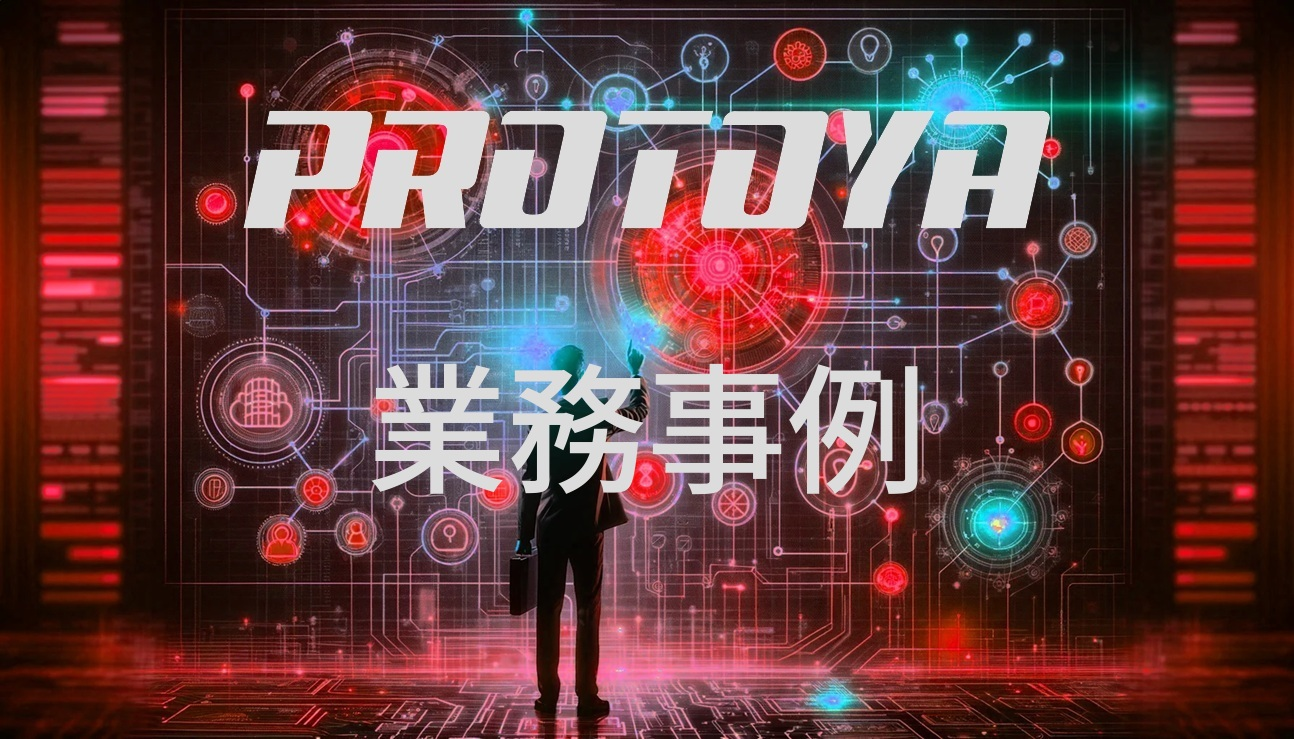
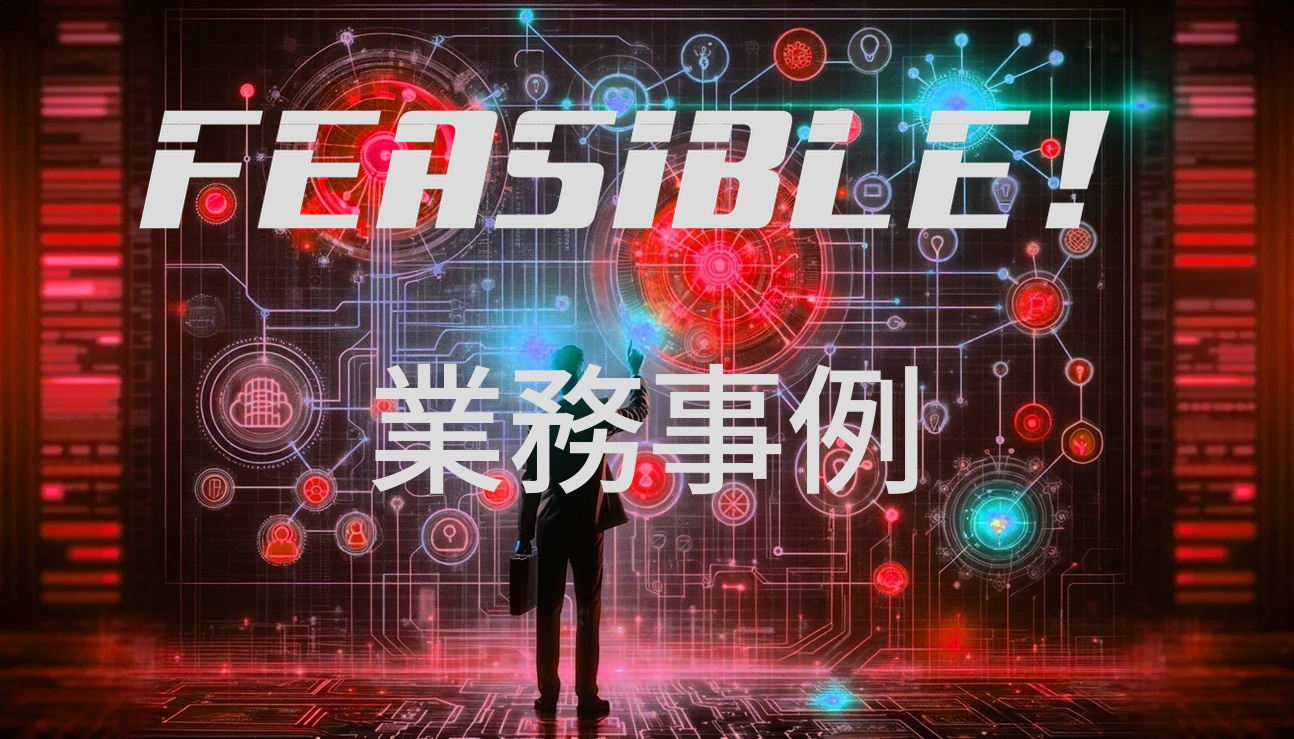
フィジブル合同会社に変更

Changed region(s): [[0.0927, 0.1245, 0.8655, 0.3112]]

diff --git a/docs/css/main-cover.css b/docs/css/main-cover.css
@@ -1,19 +1,15 @@
 .md-main {
-  background: linear-gradient(
-    180deg, 
-    rgba(0, 0, 0, 1), 
-    rgba(0, 0, 0, 0.0)) ,
-    url(../images/system-archect-professional-service2.webp);
+  background-image: url(../images/The_Victorious_Businessman.png);
   background-position: center top;
   background-size: cover;
   background-repeat:  no-repeat;
   background-color:rgb(22, 5, 5); 
 }
 .md-typeset {
-  color: rgb(187, 187, 187);
+  color: #000000;
 }
 .md-typeset h1 {
-  color: rgb(187, 187, 187);
+  color: #000000;
   font: small-caps bold 24px/1 sans-serif;
   font-size: 2em;
   line-height: 1.3;
@@ -21,12 +17,12 @@
   text-align: left;
 }
 .md-typeset a {
-  color: rgb(187, 187, 187);
+  color: #000000;
 }
 .md-typeset .md-button {
   border: .1rem solid;
   border-radius: .1rem;
-  color: rgb(187, 187, 187);
+  color: #000000;
   cursor: pointer;
   display: inline-block;
   font-weight: 700;
@@ -36,22 +32,22 @@
 .md-typeset .md-button:focus, .md-typeset .md-button:hover {
   background-color: var(--md-primary-fg-color);
   border-color: var(--md-primary-fg-color);
-  color: var(--md-accent-bg-color);
+  color: #000000;
 }
 .md-content {
-  color: rgb(187, 187, 187);
+  color: #000000;
   font: small-caps bold 24px/1 sans-serif;
-  text-align: center;
+  text-align: left;
 }
 .center-content {
-  color: rgb(187, 187, 187);
+  color: #000000;
   font: small-caps bold 20px/1 sans-serif;
-  text-align: center;
+  text-align: left;
   height : 300px;
   vertical-align : middle;
 }
 .center {
-    text-align: center;
+    text-align: left;
 }
 .md-header, .md-tabs, .md-sidebar, .md-sidebar.md-sidebar--primary, .md-sidebar.md-sidebar--secondary, .md-footer {
     display: none

diff --git a/docs/css/style.css b/docs/css/style.css
@@ -22,6 +22,7 @@
 }
 .md-typeset {
   color: #000000;
+  text-align: left;
 }
 .md-typeset h1 {
   font-weight: bold;
@@ -55,7 +56,7 @@ p.update-date {
   color: var(--md-default-fg-color--light);
   font-size: .68rem;
   margin-top: 0em;
-  text-align: right;
+  text-align: left;
 }
 p.update-date::before {
   content: url("../images/clock.svg");
@@ -65,5 +66,5 @@ a.update-date {
   color: var(--md-default-fg-color--light);
   font-size: .68rem;
   margin-top: 0em;
-  text-align: right;
+  text-align: left;
 }

diff --git a/docs/about.md b/docs/about.md
@@ -1,24 +1,30 @@
 ---
-og_title: "プロト屋 自己紹介"
+og_title: "自己紹介"
 og_description: "基本情報、略歴、スキル、お問い合わせ先"
 og_url: "https://www.proto-ya.com/about"
 og_image: "https://www.proto-ya.com/ogp/about.jpg"
 og_site_name: "PROTOYA"
 og_type: "website"
 ---
-# 自己紹介
-<p class="update-date">最終更新日: 2025年 5月 10日</br>
+# フィジブル合同会社について
+<p class="update-date">最終更新日: 2026年 10月 1日</br>
 <a class="update-date" target="_blank" href='https://github.com/proto-ya/protoya-mkdocs/commits/main/docs/about.md'>編集履歴</a></p>
 
-IT系フリーランス。バックエンド・インフラ系を中心に活動している。  
+## 法人になりました
+
+個人事業主「プロト屋」は2026年10月1日より「フィジブル合同会社」になりました。  
+近年話題のAIを活用したシステム開発、それに伴うクラウドインフラ基盤を中心としたマイグレーションにより注力して活動していきます。  
+
+## 代表 自己紹介
+
+フィジブル合同会社代表。バックエンド・インフラ系を中心に活動している。  
 システム開発上流フェーズでの技術調査やPoCを得意とし、複数のAWS移行を経験。  
 レガシーマイグレーションにも多くの実績がある。  
 マネジメントよりも現場で手を動かす事を好む。若い人の面倒見は良い方だと思っている。
+2020年10月に個人事業主として起業した。
 
 [業務事例](case/index.md){ .md-button }
 [技術ノート](tech-notes/index.md){ .md-button }
-
-## 基本情報
 
 ![profile photo](images/profile-photo.jpg){align=right style="width:150px;"}
 
@@ -30,6 +36,7 @@ IT系フリーランス。バックエンド・インフラ系を中心に活動
   登録番号 ： [T3810265808620](https://www.invoice-kohyo.nta.go.jp/regno-search/detail?selRegNo=3810265808620){target="_blank"}  
 
 ## 略歴
+
 1995年、東海大学 工学部 電子工学科を卒業。中堅システムインテグレーターに就職。  
 ITコンサル会社、外資パッケージベンダーを経て、オフショア開発を前提とした設計・受入テスト・保守を行う会社を起業。  
 リーマンショックの影響で廃業するも、多様な経験を積む。

diff --git a/docs/tech-notes/how-to-make-ogp-image.md b/docs/tech-notes/how-to-make-ogp-image.md
@@ -1,5 +1,5 @@
 ---
-og_title: "プロト屋 技術ノート"
+og_title: "技術ノート"
 og_description: "OGPイメージの作り方"
 og_url: "https://www.proto-ya.com/tech-notes/how-to-make-ogp-image/"
 og_image: "https://www.proto-ya.com/ogp/tech-notes.jpg"
@@ -39,7 +39,7 @@ sudo mv ~/*.ttf /usr/share/fonts/truetype/noto/
 ``` bash
 cd ~/protoya-mkdocs/docs/ogp/
 # ロゴのサイズを調整してpngに変換
-convert -background none -density 250 ../images/protoya-logo-white.svg logo.png 
+convert -background none -density 250 ../images/feasible-logo-white.svg logo.png 
 # ベースとロゴを合成
 convert base.jpg logo.png -background none -gravity center -compose over -composite title.jpg 
 # ロゴpngを削除
@@ -50,7 +50,7 @@ rm logo.png
 ``` bash
 cd ~/protoya-mkdocs/docs/ogp/
 # ロゴのサイズを調整してpngに変換
-convert -background none -density 250 ../images/protoya-logo-white.svg logo.png 
+convert -background none -density 250 ../images/feasible-logo-white.svg logo.png 
 # ベースとロゴを合成 ロゴは200上に
 convert base.jpg logo.png -background none -gravity center -geometry +0-200 -compose over -composite case.jpg
 # キャプション文字列画像
@@ -67,7 +67,7 @@ rm logo.png caption.png
 ``` bash
 cd ~/protoya-mkdocs/docs/ogp/
 # ロゴのサイズを調整してpngに変換
-convert -background none -density 250 ../images/protoya-logo-white.svg logo.png 
+convert -background none -density 250 ../images/feasible-logo-white.svg logo.png 
 # ベースとロゴを合成 ロゴは200上に
 convert base.jpg logo.png -background none -gravity center -geometry +0-200 -compose over -composite about.jpg
 # キャプション文字列画像
@@ -84,7 +84,7 @@ rm logo.png caption.png
 ``` bash
 cd ~/protoya-mkdocs/docs/ogp/
 # ロゴのサイズを調整してpngに変換
-convert -background none -density 250 ../images/protoya-logo-white.svg logo.png 
+convert -background none -density 250 ../images/feasible-logo-white.svg logo.png 
 # ベースとロゴを合成 ロゴは200上に
 convert base.jpg logo.png -background none -gravity center -geometry +0-200 -compose over -composite tech-notes.jpg
 # キャプション文字列画像

diff --git a/docs/home.md b/docs/home.md
@@ -1,5 +1,5 @@
 ---
-og_title: "プロト屋 ごあいさつ"
+og_title: "ごあいさつ"
 og_description: "ごあいさつと、このサイトのご案内"
 og_url: "https://www.proto-ya.com/home/"
 og_image: "https://www.proto-ya.com/ogp/title.jpg"
@@ -7,10 +7,10 @@ og_site_name: "PROTOYA"
 og_type: "website"
 ---
 # ごあいさつ
-<p class="update-date">最終更新日: 2025年 1月 31日<br>
+<p class="update-date">最終更新日: 2026年 10月 1日<br>
 <a class="update-date" target="_blank" href='https://github.com/proto-ya/protoya-mkdocs/commits/main/docs/home.md'>編集履歴</a></p>
 
-IT系フリーランス、プロト屋のポートフォリオサイトです。  
+システム開発のフィジブル合同会社のポートフォリオサイトです。  
 
 バックエンドからインフラまで幅広い分野で、PoC（概念実証）、サービスのプロトタイプ開発に多数の実績があります。  
 豊富な開発経験を基に、机上だけではなく、実際にものを動かして確認しています。  
@@ -24,7 +24,7 @@ IT系フリーランス、プロト屋のポートフォリオサイトです。
 
 このサイトでは、これまでの実績の一部を事例としてご紹介しています。
 
-[自己紹介](about.md){ .md-button }
+[会社紹介](about.md){ .md-button }
 [業務事例](case/index.md){ .md-button }
 
 ## こんなシーンでお役に立ちます

diff --git a/docs/index.md b/docs/index.md
@@ -1,7 +1,7 @@
 ---
 title: " "
-og_title: "プロト屋"
-og_description: "IT系フリーランス プロト屋のポートフォリオサイト"
+og_title: "フィジブル合同会社"
+og_description: "フィジブル合同会社のポートフォリオサイト"
 og_url: "https://www.proto-ya.com"
 og_image: "https://www.proto-ya.com/ogp/title.jpg"
 og_site_name: "PROTOYA"
@@ -9,10 +9,13 @@ og_type: "website"
 ---
 # System Architect<br>Professional<br>Services
 <link rel="stylesheet" href="css/main-cover.css">
-<p style="padding: 10px;"></p>
-<div style="text-align: center;">
+<p style="padding: 5px;"></p>
+<div>
 あらゆる局面を支援します
+<h1>フィジブル合同会社</h1>
 </div>
-![profile photo](images/protoya-logo-white.svg){: .center}
-<p style="padding: 20px;"></p>
-[プロト屋 Home](home.md){ .md-button .center }
+<!--
+![profile photo](images/feasible-logo-white.svg){: .center}
+-->
+<p style="padding: 0px;"></p>
+[Home](home.md){ .md-button .left }

diff --git a/docs/tech-notes/making-protoya-portfolio-site.md b/docs/tech-notes/making-protoya-portfolio-site.md
@@ -1,12 +1,12 @@
 ---
-og_title: "プロト屋 技術ノート"
-og_description: "プロト屋ポートフォリオ(このサイト)の構築"
+og_title: "技術ノート"
+og_description: "ポートフォリオ(このサイト)の構築"
 og_url: "https://www.proto-ya.com/tech-notes/making-protoya-portfolio-site/"
 og_image: "https://www.proto-ya.com/ogp/tech-notes.jpg"
 og_site_name: "PROTOYA"
 og_type: "website"
 ---
-# プロト屋ポートフォリオ(このサイト)の構築
+# ポートフォリオ(このサイト)の構築
 <p class="update-date">最終更新日: 2025年 1月 31日</br>
 <a class="update-date" target="_blank" href='https://github.com/proto-ya/protoya-mkdocs/commits/main/docs/tech-notes/making-protoya-portfolio-site.md'>編集履歴</a></p>
 

diff --git a/readme.md b/readme.md
@@ -1,6 +1,6 @@
 # プロト屋 MkDocs リソース
 
-このリポジトリは、[プロト屋のポートフォリオサイト](https://www.proto-ya.com/)を構築するリソース一式です。  
+このリポジトリは、[フィジブル合同会社/プロト屋のポートフォリオサイト](https://www.proto-ya.com/)を構築するリソース一式です。  
 ドキュメント構築ツール [MkDocs](https://www.mkdocs.org/) を活用して作成しました。  
 CSSや拡張機能の設定・構成を共有します。  
 アピールできる画像が多くない、バックエンドやインフラ系のエンジニアのポートフォリオサイトを構築する際の参考になればと思い公開します。

diff --git a/docs/case/aws-account-migration.md b/docs/case/aws-account-migration.md
@@ -1,5 +1,5 @@
 ---
-og_title: "プロト屋 業務事例"
+og_title: "業務事例"
 og_description: "事例紹介 : 大量のAWSアカウントのペイヤー移管
 大手ユーザー企業様において、複数のAWS Organizationsを統合するため、アカウント移管作業を実施。
 対象となる約150のAWSアカウントは、マネージドサービスを多用しており、またCfCTを用いたIaCも進んでいることから、個々が複雑な構成を持っていた。特にセキュリティ設定の影響でサービス停止が発生しないよう、慎重に調査と計画を行う。試行を重ねることで問題点を改善し、効率化を図るサイクルを構築した。

diff --git a/docs/tech-notes/index.md b/docs/tech-notes/index.md
@@ -1,5 +1,5 @@
 ---
-og_title: "プロト屋 技術ノート"
+og_title: "技術ノート"
 og_description: "技術情報を公開します"
 og_url: "https://www.proto-ya.com/tech-notes/"
 og_image: "https://www.proto-ya.com/ogp/tech-notes.jpg"
@@ -17,7 +17,7 @@ og_type: "website"
 
 ## 最近の技術ノート
 
-- [プロト屋ポートフォリオ(このサイト)の構築](making-protoya-portfolio-site.md)
+- [ポートフォリオ(このサイト)の構築](making-protoya-portfolio-site.md)
     - [OGPイメージ(SNSにシェアする際に表示される画像)の作り方](how-to-make-ogp-image.md)
 
 ## AWS関連

diff --git a/docs/case/cicd-replace.md b/docs/case/cicd-replace.md
@@ -1,5 +1,5 @@
 ---
-og_title: "プロト屋 業務事例"
+og_title: "業務事例"
 og_description: "事例紹介 : CI/CD環境と開発プロセスの刷新
 開発ベンダーの変更に伴い、CI/CD環境の刷新とVDTによる開発環境の整備・展開を実施。インフラ・アーキテクトチームのメンバーとしてプロジェクトに参画。
 旧ベンダーの成果物に品質の問題があったため、改修および仕様変更に対応するための開発インフラを見直し、オフショア開発を前提とした開発体制を構築。

diff --git a/docs/case/modernization-proposal.md b/docs/case/modernization-proposal.md
@@ -1,5 +1,5 @@
 ---
-og_title: "プロト屋 業務事例"
+og_title: "業務事例"
 og_description: "事例紹介 : モダナイズに伴う基盤刷新の提案支援
 Web系システムのモダナイズに伴う基盤刷新の提案プロジェクト。
 提案内容を裏付けるためにPoCを実施。AWSのマネージドサービスを最大限活用する方針のもと、複数の個別システムの現行アーキテクチャを調査し、将来のマイクロサービス化を見据えたToBeモデルの資料を作成。
